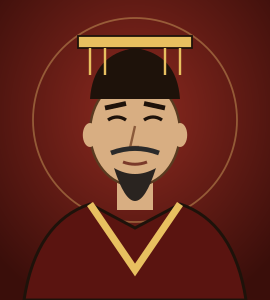
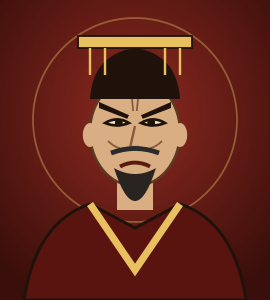
Chân dung: Ngô Quyền đội mũ trụ, mặc giáp, nét dũng mãnh; phe địch mày cau, nét hung dữ
Claude-Session: https://claude.ai/code/session_012GwE9AoY71FaHC6vswvg8J

diff --git a/scripts/video/nhanvat.py b/scripts/video/nhanvat.py
@@ -12,12 +12,12 @@ DIR = os.path.join(ROOT, 'assets', 'nhanvat')
 
 # Mô tả vẽ tạm: màu nền, mũ, râu, áo, tuổi
 NHANVAT = {
-    'ngo-quyen':   dict(bg=('#5A3A10', '#C9A24A'), hat='khan', beard='ria', robe='#6A4A1E', trim='#C9A24A', age='trung'),
-    'hoang-thao':  dict(bg=('#4A1410', '#A8382A'), hat='mao',  beard='none', robe='#7A1E18', trim='#E0B060', age='tre'),
-    'luu-cung':    dict(bg=('#3A0E0A', '#8E2A20'), hat='mien', beard='dai', robe='#5A1410', trim='#E8C060', age='gia'),
-    'quan-ta':     dict(bg=('#5A3A10', '#C9A24A'), hat='non',  beard='none', robe='#5A4630', trim='#A88A50', age='tre'),
+    'ngo-quyen':   dict(bg=('#5A3A10', '#C9A24A'), hat='tru',  beard='ria', robe='#6A4A1E', trim='#C9A24A', age='trung', face='dung', armor=True),
+    'hoang-thao':  dict(bg=('#4A1410', '#A8382A'), hat='mao',  beard='ria', robe='#7A1E18', trim='#E0B060', age='tre', face='du', armor=True),
+    'luu-cung':    dict(bg=('#3A0E0A', '#8E2A20'), hat='mien', beard='dai', robe='#5A1410', trim='#E8C060', age='gia', face='du'),
+    'quan-ta':     dict(bg=('#5A3A10', '#C9A24A'), hat='non',  beard='none', robe='#5A4630', trim='#A88A50', age='tre', face='dung'),
     'duong-dinh-nghe': dict(bg=('#5A3A10', '#C9A24A'), hat='khan', beard='dai', robe='#4E3A1E', trim='#C9A24A', age='gia'),
-    'kieu-cong-tien':  dict(bg=('#2E2A26', '#6A5E50'), hat='khan', beard='ria', robe='#3A342E', trim='#8A7A60', age='trung'),
+    'kieu-cong-tien':  dict(bg=('#2E2A26', '#6A5E50'), hat='khan', beard='ria', robe='#3A342E', trim='#8A7A60', age='trung', face='du'),
 }
 
 def _vector_svg(c, w=270, h=300):
@@ -34,11 +34,28 @@ def _vector_svg(c, w=270, h=300):
          f'<rect x="39" y="56" width="12" height="14" fill="{skin}"/>',
          f'<ellipse cx="45" cy="44" rx="15" ry="18" fill="{skin}" stroke="#5A3A20" stroke-width="0.8"/>',
          f'<ellipse cx="30" cy="45" rx="2.4" ry="4" fill="{skin}"/><ellipse cx="60" cy="45" rx="2.4" ry="4" fill="{skin}"/>',
-         # mắt, mày, mũi, miệng
-         '<path d="M36,40 q3,-2 6,0" stroke="#1E120A" stroke-width="1.1" fill="none"/><path d="M48,40 q3,-2 6,0" stroke="#1E120A" stroke-width="1.1" fill="none"/>',
-         '<path d="M35,36 l7,-1.5" stroke="#1E120A" stroke-width="1.6"/><path d="M55,36 l-7,-1.5" stroke="#1E120A" stroke-width="1.6"/>',
-         '<path d="M45,42 l-1.6,7 l3,0" stroke="#8A5A3A" stroke-width="0.8" fill="none"/>',
-         '<path d="M41,54 q4,1.5 8,0" stroke="#7A3A2A" stroke-width="1" fill="none"/>']
+         '<path d="M45,42 l-1.6,7 l3,0" stroke="#8A5A3A" stroke-width="0.8" fill="none"/>']
+    face = c.get('face', 'hien')
+    if face == 'hien':
+        o += ['<path d="M36,40 q3,-2 6,0" stroke="#1E120A" stroke-width="1.1" fill="none"/><path d="M48,40 q3,-2 6,0" stroke="#1E120A" stroke-width="1.1" fill="none"/>',
+              '<path d="M35,36 l7,-1.5" stroke="#1E120A" stroke-width="1.6"/><path d="M55,36 l-7,-1.5" stroke="#1E120A" stroke-width="1.6"/>',
+              '<path d="M41,54 q4,1.5 8,0" stroke="#7A3A2A" stroke-width="1" fill="none"/>']
+    else:
+        fierce = face == 'du'
+        # mắt: lòng trắng + con ngươi, mí trên kẻ đậm và xếch
+        for ex, sgn in ((39, -1), (51, 1)):
+            o.append(f'<path d="M{ex-4},41 Q{ex},{38.6 if fierce else 38.2} {ex+4},41 Q{ex},42.6 {ex-4},41 Z" fill="#F2E6CC" stroke="#1E120A" stroke-width="0.9"/>')
+            o.append(f'<circle cx="{ex + (0.6 if fierce else 0)*sgn*-1:.1f}" cy="40.9" r="1.3" fill="#1E120A"/>')
+            o.append(f'<path d="M{ex-4.4},{40.6 if fierce else 40.2} L{ex+4.4},{39.4 if sgn>0 else 41.6}" stroke="#1E120A" stroke-width="1.1" transform="scale(1 1)"/>' if False else '')
+        if fierce:   # mày cau dựng ngược, nếp nhăn giữa trán, miệng trễ xuống
+            o += ['<path d="M33,34 L43,38.4 L42.4,39.6 L33,36 Z" fill="#1E120A"/><path d="M57,34 L47,38.4 L47.6,39.6 L57,36 Z" fill="#1E120A"/>',
+                  '<path d="M44,33 l0.4,4 M46,33 l-0.4,4" stroke="#8A5A3A" stroke-width="0.6"/>',
+                  '<path d="M40,55.5 q5,-2.6 10,0" stroke="#5A1A12" stroke-width="1.3" fill="none"/>',
+                  '<path d="M36,47 q2,2 4,2.4 M54,47 q-2,2 -4,2.4" stroke="#8A5A3A" stroke-width="0.6" fill="none"/>']
+        else:        # dũng mãnh: mày rậm thẳng hơi xếch, miệng mím chặt, cằm vuông
+            o += ['<path d="M33.5,36 L43,37.6 L43,39.2 L33.5,38 Z" fill="#1E120A"/><path d="M56.5,36 L47,37.6 L47,39.2 L56.5,38 Z" fill="#1E120A"/>',
+                  '<path d="M40.5,54.4 h9" stroke="#5A1A12" stroke-width="1.4"/>',
+                  '<path d="M33,52 Q36,61 45,62 Q54,61 57,52" stroke="#8A5A3A" stroke-width="0.7" fill="none"/>']
     if c['beard'] == 'ria':
         o.append('<path d="M38,52 q7,-3 14,0" stroke="#1E120A" stroke-width="1.6" fill="none"/><path d="M43,57 l2,6 l2,-6" fill="#1E120A"/>')
     if c['beard'] == 'dai':
@@ -53,8 +70,17 @@ def _vector_svg(c, w=270, h=300):
     elif hat == 'mien':    # mũ vua có tua (minh họa)
         o.append(f'<path d="M30,33 Q31,18 45,16 Q59,18 60,33 Z" fill="#1E120A"/><rect x="26" y="12" width="38" height="4" fill="{c["trim"]}" stroke="#1E120A" stroke-width="0.6"/>')
         o.append(''.join(f'<line x1="{x}" y1="16" x2="{x}" y2="25" stroke="{c["trim"]}" stroke-width="0.8"/>' for x in (30, 35, 55, 60)))
+    elif hat == 'tru':     # mũ trụ của tướng: chóp nhọn, chùm tua đỏ, vành che tai (minh họa)
+        o.append(f'<path d="M27,40 Q27,16 45,13 Q63,16 63,40 L58,40 Q57,25 45,24 Q33,25 32,40 Z" fill="#8A6A2A" stroke="#1E120A" stroke-width="1"/>')
+        o.append(f'<path d="M30,26 Q45,18 60,26" stroke="{c["trim"]}" stroke-width="1.6" fill="none"/><path d="M33,32 Q45,26 57,32" stroke="#F3D27A" stroke-width="0.8" fill="none"/>')
+        o.append(f'<path d="M42,14 L45,4 L48,14 Z" fill="{c["trim"]}" stroke="#1E120A" stroke-width="0.6"/><path d="M45,6 Q39,0 37,6 Q41,3 45,8 Q49,3 53,6 Q51,0 45,6 Z" fill="#B3261E"/>')
+        o.append('<circle cx="45" cy="21" r="2.2" fill="#B3261E" stroke="#F3D27A" stroke-width="0.6"/>')
+        o.append(f'<path d="M27,40 L25,52 L31,50 L32,40 Z M63,40 L65,52 L59,50 L58,40 Z" fill="#7A5A24" stroke="#1E120A" stroke-width="0.8"/>')
     elif hat == 'non':     # nón lính
         o.append('<path d="M24,32 L45,16 L66,32 Z" fill="#7A5A30" stroke="#1E120A" stroke-width="1"/><line x1="45" y1="16" x2="45" y2="12" stroke="#1E120A" stroke-width="1.2"/>')
+    if c.get('armor'):     # giáp vai + giáp ngực vảy
+        o.append(f'<path d="M10,100 Q10,78 26,70 Q33,74 34,82 Q22,84 16,100 Z M80,100 Q80,78 64,70 Q57,74 56,82 Q68,84 74,100 Z" fill="#7A5A24" stroke="#1E120A" stroke-width="0.9"/>')
+        o.append(''.join(f'<path d="M{x},{y} q3,3 6,0" stroke="#F3D27A" stroke-width="0.6" fill="none"/>' for y in (86, 91, 96) for x in range(34, 56, 6)))
     o.append('</svg>')
     return ''.join(o)
 

diff --git a/scripts/hieuung/demo.py b/scripts/hieuung/demo.py
@@ -60,7 +60,7 @@ def banner(x, y, name, side, s=0.42, tilt=0, op=1.0, grey=0.0, outline=0.0, img=
          '<line x1="-78" y1="-268" x2="78" y2="-268" stroke="#3A2618" stroke-width="7"/>',
          f'<rect x="-70" y="-266" width="140" height="190" fill="{col}" stroke="{dark}" stroke-width="5"/>',
          f'<rect x="-70" y="-266" width="140" height="40" fill="{KEM}" stroke="{dark}" stroke-width="4"/>',
-         f'<text x="0" y="-238" font-family="Be Vietnam Pro SemiBold" font-size="22" fill="#2A1A10" text-anchor="middle">{name}</text>',
+         f'<text x="0" y="-238" font-family="Be Vietnam Pro SemiBold" font-size="{min(22, 200/max(1,len(name))):.1f}" fill="#2A1A10" text-anchor="middle">{name}</text>',
          (f'<svg x="-64" y="-224" width="128" height="144" viewBox="0 0 90 100" preserveAspectRatio="xMidYMid slice"><image href="{img}" width="90" height="100" preserveAspectRatio="xMidYMid slice"/></svg>'
           f'<rect x="-64" y="-224" width="128" height="144" fill="#808080" opacity="{0.75*grey:.2f}"/><rect x="-64" y="-224" width="128" height="144" fill="none" stroke="{dark}" stroke-width="3"/>'
           if img else
